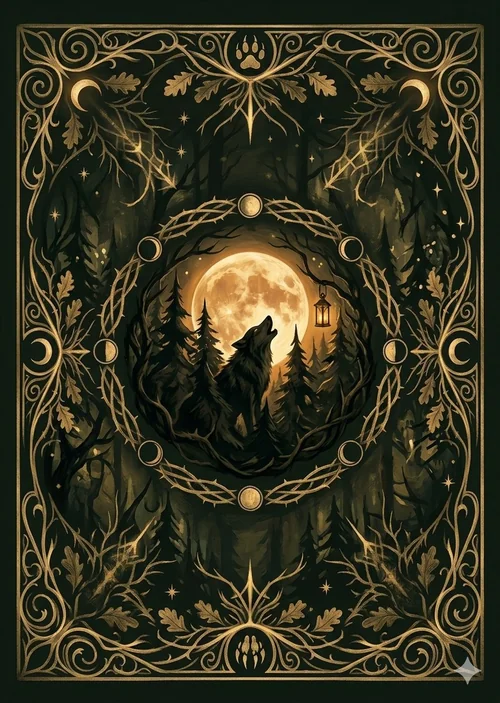
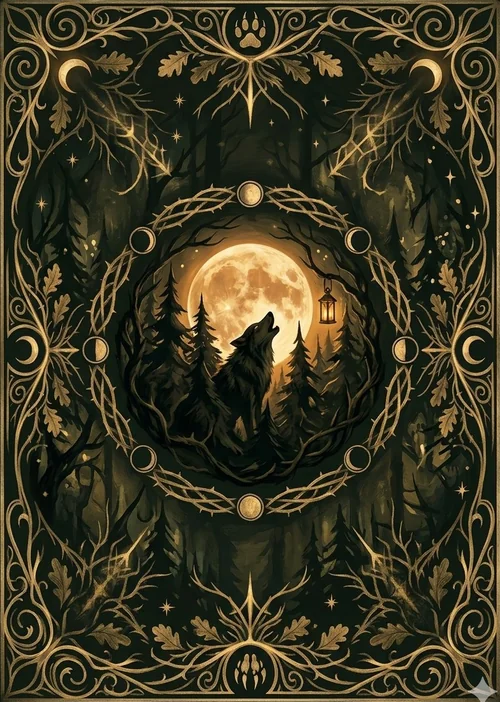
fix: card-back fit frame + disable long-press text menu

diff --git a/packages/client/src/components/game/PlayingScreen.tsx b/packages/client/src/components/game/PlayingScreen.tsx
@@ -28,7 +28,19 @@ export function PlayingScreen({ roomCode, cardId }: PlayingScreenProps) {
   const [showDetail, setShowDetail] = useState(false);
 
   return (
-    <div className="flex-1 flex flex-col min-h-0 px-4 pt-5 pb-7 animate-fade-in">
+    <div
+      className="flex-1 flex flex-col min-h-0 px-4 pt-5 pb-7 animate-fade-in"
+      style={{
+        // Phase 2.5 bug fix: tap-and-hold on text labels triggers Chrome's
+        // text-selection menu (Lens, translate, copy). Disable text selection
+        // and the iOS/Android long-press callout on the entire playing screen.
+        // The "Xem chi tiết" button still works (it's a button, not text).
+        userSelect: 'none',
+        WebkitUserSelect: 'none',
+        WebkitTouchCallout: 'none',
+      }}
+      onContextMenu={(e) => e.preventDefault()}
+    >
       {/* Sticky header */}
       <div className="shrink-0">
         <div className="flex items-center justify-between mb-1">

diff --git a/docs/ALPHA_WOLF_PROMPT.md b/docs/ALPHA_WOLF_PROMPT.md
@@ -1,88 +1,35 @@
-# Sói Tiên Tri (alpha_wolf) — Gemini Image Generation Prompt
+# Sói Tiên Tri (alpha_wolf) — Gemini Image Generation Prompt (Portrait v2)
 
-> Generate a card art for "Sói Tiên Tri" (Alpha Wolf / Seer Wolf) — a werewolf with prophetic / scrying powers. Must match the existing card art style (painterly digital illustration, dark forest, amber lighting, square 1:1).
+> **CHANGE FROM v1:** Aspect ratio đổi từ 1:1 sang portrait ~5:7 để fit khung card. KHÔNG redo nếu bạn đã có ảnh 1:1 ưng ý (1:1 cards trong Phase 2.1 hiển thị trong khung vuông nhỏ của Main Desk + CardDetailDialog, OK; chỉ RevealCard mới cần portrait).
 
-## Role context
+## Khi nào cần redo alpha_wolf sang portrait?
 
-Sói Tiên Tri là một con sói có khả năng tiên tri như vai Tiên Tri thật — mỗi đêm có thể soi 1 người để biết vai trò của họ. Sói nhưng có "con mắt thứ ba" / sức mạnh huyền bí.
+**KHÔNG cần** nếu:
+- Ảnh hiện tại (1:1) hiển thị OK trong Main Desk + CardDetailDialog (khung vuông) → giữ nguyên
+- RevealCard hiển thị ảnh role trong khung vuông nhỏ bên trong card (52% width, aspect 1) → ảnh 1:1 vẫn fit
 
-Visual concept ideas: wolf with glowing eyes / wolf staring into a crystal orb / wolf with arcane runes / wolf with one eye shining like a divination orb.
+**CẦN** nếu:
+- Bạn muốn ALL 15 role cards sang portrait để consistent (lớn effort, không necessary)
 
-## Primary prompt (recommended — copy-paste vào Gemini)
+## Recommended: GIỮ alpha_wolf.webp 1:1 hiện tại
 
-```
-A painterly digital illustration of a mystical alpha werewolf with prophetic powers, centered composition, square 1:1 aspect ratio.
+Lý do:
+- 15 role cards Phase 2.1 đều 1:1, đã hoạt động tốt
+- Trong RevealCard, ảnh role hiển thị trong khung VUÔNG nhỏ (52% rộng, aspect-ratio: 1) bên trong card frame portrait — KHÔNG cần ảnh portrait
+- Chỉ background card-back mới cần portrait (vì nó fill toàn khung)
 
-Subject: a large dark-furred wolf with intense glowing amber eyes, sitting or standing majestically in a misty moonlit forest clearing. One of its eyes glows brighter — a third-eye effect, like seeing visions. Faint mystical runes or arcane symbols float in the air around its head, glowing softly in warm amber light.
+## Nếu vẫn muốn portrait alpha_wolf
+
+Prompt:
+
+A painterly digital illustration of a mystical alpha werewolf with prophetic powers, centered composition, PORTRAIT 5:7 aspect ratio (vertical, taller than wide).
+
+Subject: a large dark-furred wolf with intense glowing amber eyes, sitting majestically in a misty moonlit forest clearing. A glowing third-eye mark on its forehead emits warm amber light. Faint mystical runes float in a halo around its head, glowing softly in amber.
 
 Atmosphere: dark fantasy tabletop game card art, tarot-card aesthetic. Pine tree silhouettes in the background, soft moonlight from above, low fog at the wolf's paws. Mysterious, powerful, otherworldly.
 
-Color palette: deep forest greens and blacks (#1F2419 background tones), warm amber glow (#E89B3C) for the magical eye and rune accents, muted gold filigree-like wisps of magic. Low saturation overall, high contrast on the wolf.
+Color palette: deep forest greens and blacks (#1F2419), warm amber glow (#E89B3C), muted gold. Low saturation, high contrast on the wolf.
 
-Style: painterly oil-painting feel, similar to dark fantasy card games (e.g. Magic: The Gathering, Mystery of the Abbey). NOT cartoon, NOT photoreal. Detailed fur, expressive eyes, atmospheric lighting.
+Style: painterly oil-painting feel. NO text, NO letters, NO numbers, NO frames or borders.
 
-NO text, NO letters, NO numbers, NO frames or borders.
-```
-
-## Alternative prompt 1 (wolf with crystal orb)
-
-```
-A painterly digital illustration of an alpha werewolf with divination powers. A large dark wolf gazing intently into a glowing amber crystal orb floating before it, in a moonlit foggy forest. The orb reflects a faint vision inside (a shadowy figure, a clue). Centered composition, square 1:1.
-
-Atmosphere: dark fantasy card game art. Pine silhouettes, low fog, soft moonlight. Mysterious and powerful.
-
-Colors: forest dark base (#1F2419), warm amber accents (#E89B3C), muted gold magical glow.
-
-Style: painterly oil illustration, dark tarot aesthetic. NO text, NO borders.
-```
-
-## Alternative prompt 2 (wolf with third eye)
-
-```
-A painterly digital illustration of a mystical alpha werewolf with a glowing third eye on its forehead emitting amber light, standing in a dark moonlit pine forest. The wolf has dark fur, sharp features, an air of ancient wisdom and predatory power combined. Subtle arcane runes glow faintly in the mist around it.
-
-Square 1:1 aspect ratio, centered composition. Painterly fantasy card game art style.
-
-Colors: deep forest green-black (#1F2419), warm amber glow (#E89B3C). Low saturation, high contrast on the wolf.
-
-NO text or borders. Dark fantasy mood.
-```
-
-## Settings recommendations
-
-- **Aspect ratio:** 1:1 square
-- **Variations:** generate 3-4 cùng prompt, pick cái match best với 14 cards hiện có
-- **Reference image (nếu Gemini cho upload):** có thể upload 1 ảnh cards hiện tại (vd `werewolf.webp` hoặc `wolf_alpha.webp`) làm style reference
-
-## Consistency checklist (so với 14 cards hiện tại)
-
-Khi pick ảnh, check:
-
-- ✅ **Painterly, không photo-realistic** — match style chung
-- ✅ **Subject centered** chiếm 60-70% khung
-- ✅ **Dark forest atmosphere** (pine trees, fog, moonlight)
-- ✅ **Warm amber lighting** ở subject (giống cách `werewolf.webp` có moon vàng, `wolf_alpha.webp` có rim light vàng)
-- ✅ **Vignette tối** ở 4 góc — focus vào center
-- ✅ **Mood serious / dramatic** — không cute, không cartoon
-
-## Sau khi generate
-
-1. **Download** ảnh tốt nhất
-2. **Optimize:** Squoosh.app → resize 400×400 → WebP 85% (target ≤33 KB)
-3. **Đặt tên:** `alpha_wolf.webp`
-4. **Send file cho tôi** trong chat — tôi sẽ:
-   - Verify file size + quality
-   - Replace `/home/claude/werewolf-companion/packages/client/public/cards/alpha_wolf.webp`
-   - Package zip mới cho bạn deploy
-
-## Quy trình full với card back nữa
-
-Nếu bạn cũng generate card back trong cùng session Gemini:
-- Card back: dùng prompt từ `CARD_BACK_PROMPT.md` (đã có sẵn)
-- Sói Tiên Tri: dùng 1 trong 3 prompts ở trên
-
-Gửi cả 2 ảnh cho tôi → tôi sẽ:
-1. Replace `alpha_wolf.webp` + add `card-back.webp` vào public/cards/
-2. Verify total bundle size (currently 340KB images, target ≤500KB)
-3. Re-package zip Phase 2.5 với assets mới
-4. Bạn deploy 1 lần là xong cả 2 thay đổi visual
+Aspect ratio: 5:7 PORTRAIT (vertical card shape).

diff --git a/docs/CARD_BACK_PROMPT.md b/docs/CARD_BACK_PROMPT.md
@@ -1,57 +1,59 @@
-# Card Back — Gemini Image Generation Prompt
+# Card Back — Gemini Image Generation Prompt (Portrait v2)
 
-> Generate the card back (mặt úp) shown when a player hasn't revealed their role yet. Must match the existing 15 card artwork theme: "Bàn gỗ kể chuyện" (forest dark + warm amber lantern light).
+> **CHANGE FROM v1:** Aspect ratio đổi từ 1:1 (square) sang **portrait ~5:7** (vertical, fit khung card aspect 0.7). Ảnh không bị crop/stretch khi đặt trong card frame.
 
 ## Primary prompt (copy-paste vào Gemini)
 
 ```
-A mysterious tarot-style card back design for a werewolf party game, viewed straight-on (flat, centered, symmetrical).
+A mysterious tarot-style card back design for a werewolf party game, viewed straight-on (flat, centered, symmetrical), portrait orientation (vertical card shape, aspect ratio approximately 5:7 or 2:3 — like a real playing card).
 
-Style: dark atmospheric digital illustration, painterly, cohesive with a moonlit forest storytelling theme.
+Style: dark atmospheric digital illustration, painterly, ornate gilded filigree, cohesive with a moonlit forest storytelling theme.
 
-Central motif: a glowing amber lantern OR a full moon partially hidden behind dark pine tree silhouettes, with subtle wolf imagery woven into the shadows.
+Central motif (vertically centered, upper-middle area): a glowing amber full moon with dark pine tree silhouettes in front of it, a small howling wolf silhouette on a cliff in the foreground, faint hanging lantern beside the moon.
 
-Color palette: deep forest green-black background (#1F2419), warm amber accents (#E89B3C), muted gold filigree border. Low saturation, high contrast, candle-lit mood.
+Border: thick symmetrical gilded filigree frame on all four edges (top, bottom, left, right), with ornate gold scrollwork, oak leaves, and subtle moon phase symbols at the midpoints of each edge. The border should completely surround the central artwork like a vintage tarot card. Top center has a small wolf paw print emblem; bottom center has a matching emblem (paws or claw).
 
-Composition: ornate symmetrical border frame (like a vintage playing card back), intricate but not cluttered, with a single focal emblem in the center. NO text, NO letters, NO numbers anywhere.
+Atmosphere: deep forest green-black background (#1F2419), warm amber moon glow (#E89B3C), muted aged-gold filigree details. Low saturation, candle-lit mysterious mood.
 
-Mood: secretive, mysterious, inviting — "hold to reveal your secret role". Premium board-game card aesthetic.
+Composition: PORTRAIT (taller than wide), with the central round emblem in the upper-middle portion of the card, ornate borders running top-to-bottom. NO text, NO letters, NO numbers anywhere.
 
-Square aspect ratio (1:1). Centered composition with breathing room around the central emblem.
+Mood: secretive, mysterious, inviting — "hold to reveal your secret role". Premium board-game card aesthetic, similar to high-quality tarot card backs or Magic: The Gathering card backs.
+
+Aspect ratio: 5:7 (portrait, tall card shape). NOT square.
 ```
 
-## Alternative prompt (nếu muốn đơn giản hơn)
+## Settings
 
-```
-A minimalist mysterious card back for a werewolf game. Centered glowing amber moon emblem over a dark forest-green background (#1F2419). Subtle geometric filigree border in muted gold (#E89B3C). Symmetrical, flat, straight-on view. No text or numbers. Dark, secretive, candle-lit mood. Square 1:1 aspect ratio. Premium tabletop card aesthetic.
-```
+- **Aspect ratio:** 5:7 hoặc 2:3 (portrait/tall) — KHÔNG square
+  - Nếu Gemini có option chọn: pick "portrait" hoặc "tall" hoặc "2:3"
+  - Nếu chỉ có 1:1 và 16:9: chọn 9:16 (portrait) rồi crop nhẹ
+- **Resolution:** 1024×1456 hoặc tương đương (target dimensions)
+- **Variations:** generate 3-4, pick best
+- **Reference image:** có thể upload card-back.webp cũ làm style reference
 
-## Settings recommendations
+## Vì sao đổi sang portrait
 
-- **Aspect ratio:** 1:1 (square) — match các card khác
-- **Số lượng generate:** 4 variations → pick cái đẹp nhất
-- **Nếu Gemini cho chỉnh:** ưu tiên cái có border đối xứng + emblem rõ ở center
+Card frame trong app dùng aspect-ratio 0.7 (cao 1.43× rộng — tỉ lệ bài tây). Ảnh 1:1 đặt trong khung dọc sẽ:
+- Bị crop trên/dưới (nếu object-fit: cover) → mất phần border filigree
+- Hoặc bị stretch méo (nếu object-fit: fill)
+- Hoặc có viền trống (nếu object-fit: contain)
+
+Ảnh portrait fit thẳng vào khung → giữ trọn vẹn composition + border filigree.
 
 ## Sau khi generate
 
-1. **Download** ảnh đẹp nhất
-2. **Optimize:** Squoosh.app → resize 400×400 → WebP 85% (target ≤33 KB)
-3. **Đặt tên:** `card-back.webp`
-4. **Move vào:** `packages/client/public/cards/card-back.webp`
-5. Code đã reference sẵn path này (tôi sẽ set trong Developer phase)
+1. **Download** ảnh đẹp nhất (vertical orientation)
+2. **Verify aspect ratio:** check dimensions phải gần với 5:7 (vd 800x1120, 1000x1400, etc.)
+3. **Send file cho tôi** trong chat — tôi sẽ:
+   - Optimize sang WebP với quality cao hơn để giữ filigree sharp
+   - **Target size: ~70-90 KB** (cao hơn rule 33 KB nhưng OK vì decorative + bạn đã accept)
+   - Replace card-back.webp
+   - Update RevealCard.tsx nếu cần điều chỉnh CSS để tận dụng portrait
 
-## Yêu cầu quan trọng
+## Yêu cầu vẫn giữ nguyên
 
-- ❌ **KHÔNG có text/chữ/số** trong ảnh (vì sẽ có text overlay "Giữ để xem" từ code)
-- ✅ **Đối xứng** — card back đẹp khi đối xứng (như bài thật)
-- ✅ **Center emblem rõ ràng** — moon/lantern làm focal point
-- ✅ **Dark theme** — phải hợp với #1F2419 background của app
-- ✅ **1:1 square** — cùng tỉ lệ với 15 card images
-
-## Tip: Đảm bảo consistency
-
-Nếu bạn còn nhớ prompt đã dùng để generate 15 card images (Phase 2.1), thêm style keywords tương tự vào đây để card back match phong cách. Ví dụ nếu 15 cards là "painterly illustration" thì giữ "painterly"; nếu là "flat vector" thì đổi sang "flat vector emblem".
-
-## Fallback nếu chưa có ảnh
-
-Trong khi chờ generate, code sẽ dùng placeholder SVG (lantern emblem) — app vẫn chạy được, chỉ là card back chưa đẹp như ý. Sau khi có `card-back.webp`, chỉ cần drop file vào `public/cards/` và redeploy.
+- KHÔNG có text/chữ/số
+- Đối xứng trục dọc
+- Border filigree đầy đủ 4 cạnh (top/bottom/left/right)
+- Dark theme match #1F2419 background
+- Portrait orientation (đây là điểm thay đổi chính)
